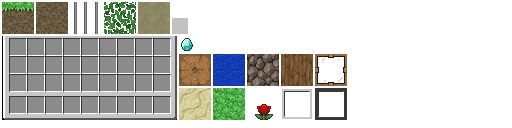
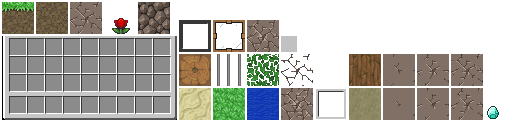
Began setting up block breaking animation: shaders and mesh updates

Changed region(s): [[0.125, 0.0, 1.0, 0.9375]]

diff --git a/core/src/com/deepwelldevelopment/spacequest/client/render/block/BasicBlockRender.java b/core/src/com/deepwelldevelopment/spacequest/client/render/block/BasicBlockRender.java
@@ -9,6 +9,7 @@ import com.badlogic.gdx.utils.ShortArray;
 import com.deepwelldevelopment.spacequest.block.Block;
 import com.deepwelldevelopment.spacequest.block.IBlockProvider;
 import com.deepwelldevelopment.spacequest.client.render.IBlockRender;
+import com.deepwelldevelopment.spacequest.util.TextureUtils;
 import com.deepwelldevelopment.spacequest.world.chunk.Chunk;
 
 import java.util.Arrays;
@@ -39,6 +40,7 @@ public class BasicBlockRender implements IBlockRender {
     protected float[] lightFloat3 = new float[4];
     protected float[] lightFloat4 = new float[4];
     private Vector2[] texCoords = new Vector2[4];
+    private Vector2[] breakCoords = new Vector2[4];
 
     @Override
     public synchronized boolean addBlock(Vector3 worldPosition, int x, int y, int z, IBlockProvider blockProvider,
@@ -48,6 +50,7 @@ public class BasicBlockRender implements IBlockRender {
         Vector2[] sidesTextureUVs = block.getSidesTextureUVs();
         Vector2[] topTextureUVs = block.getTopTextureUVs();
         Vector2[] bottomTextureUVs = block.getBottomTextureUVs();
+        breakCoords = TextureUtils.calculateUVMapping("breaking", 8);
 
         if (block.drawSide(blockProvider, chunk, x, y, z, Block.Side.FRONT)) {
             setAOLightFront(x, y, z, chunk, block);
@@ -100,15 +103,15 @@ public class BasicBlockRender implements IBlockRender {
     }
 
     protected void addFront(FloatArray vertices, ShortArray indicies) {
-        int vertexOffset = vertices.size / 12;
+        int vertexOffset = vertices.size / 14;
         vertices.addAll(
-                points[0].x, points[0].y, points[0].z, texCoords[0].x, texCoords[0].y, frontNormal[0], frontNormal[1],
+                points[0].x, points[0].y, points[0].z, texCoords[0].x, texCoords[0].y, breakCoords[0].x, breakCoords[0].y, frontNormal[0], frontNormal[1],
                 frontNormal[2], lightFloat4[0], lightFloat4[1], lightFloat4[2], lightFloat4[3],
-                points[1].x, points[1].y, points[1].z, texCoords[1].x, texCoords[1].y, frontNormal[0], frontNormal[1],
+                points[1].x, points[1].y, points[1].z, texCoords[1].x, texCoords[1].y, breakCoords[1].x, breakCoords[1].y, frontNormal[0], frontNormal[1],
                 frontNormal[2], lightFloat3[0], lightFloat3[1], lightFloat3[2], lightFloat3[3],
-                points[2].x, points[2].y, points[2].z, texCoords[2].x, texCoords[2].y, frontNormal[0], frontNormal[1],
+                points[2].x, points[2].y, points[2].z, texCoords[2].x, texCoords[2].y, breakCoords[2].x, breakCoords[2].y, frontNormal[0], frontNormal[1],
                 frontNormal[2], lightFloat2[0], lightFloat2[1], lightFloat2[2], lightFloat2[3],
-                points[3].x, points[3].y, points[3].z, texCoords[3].x, texCoords[3].y, frontNormal[0], frontNormal[1],
+                points[3].x, points[3].y, points[3].z, texCoords[3].x, texCoords[3].y, breakCoords[3].x, breakCoords[3].y, frontNormal[0], frontNormal[1],
                 frontNormal[2], lightFloat[0], lightFloat[1], lightFloat[2], lightFloat[3]);
 
         indicies.addAll((short) (vertexOffset), (short) (1 + vertexOffset), (short) (2 + vertexOffset), (short) (2 +
@@ -116,15 +119,15 @@ public class BasicBlockRender implements IBlockRender {
     }
 
     protected void addBack(FloatArray vertices, ShortArray indicies) {
-        int vertexOffset = vertices.size / 12;
+        int vertexOffset = vertices.size / 14;
         vertices.addAll(
-                points[4].x, points[4].y, points[4].z, texCoords[0].x, texCoords[0].y, backNormal[0], backNormal[1],
+                points[4].x, points[4].y, points[4].z, texCoords[0].x, texCoords[0].y, breakCoords[0].x, breakCoords[0].y, backNormal[0], backNormal[1],
                 backNormal[2], lightFloat4[0], lightFloat4[1], lightFloat4[2], lightFloat4[3],
-                points[5].x, points[5].y, points[5].z, texCoords[1].x, texCoords[1].y, backNormal[0], backNormal[1],
+                points[5].x, points[5].y, points[5].z, texCoords[1].x, texCoords[1].y, breakCoords[1].x, breakCoords[1].y, backNormal[0], backNormal[1],
                 backNormal[2], lightFloat3[0], lightFloat3[1], lightFloat3[2], lightFloat3[3],
-                points[6].x, points[6].y, points[6].z, texCoords[2].x, texCoords[2].y, backNormal[0], backNormal[1],
+                points[6].x, points[6].y, points[6].z, texCoords[2].x, texCoords[2].y, breakCoords[2].x, breakCoords[2].y, backNormal[0], backNormal[1],
                 backNormal[2], lightFloat2[0], lightFloat2[1], lightFloat2[2], lightFloat2[3],
-                points[7].x, points[7].y, points[7].z, texCoords[3].x, texCoords[3].y, backNormal[0], backNormal[1],
+                points[7].x, points[7].y, points[7].z, texCoords[3].x, texCoords[3].y, breakCoords[3].x, breakCoords[3].y, backNormal[0], backNormal[1],
                 backNormal[2], lightFloat[0], lightFloat[1], lightFloat[2], lightFloat[3]);
 
         indicies.addAll((short) (vertexOffset), (short) (1 + vertexOffset), (short) (2 + vertexOffset), (short) (2 +
@@ -132,15 +135,15 @@ public class BasicBlockRender implements IBlockRender {
     }
 
     protected void addRight(FloatArray vertices, ShortArray indicies) {
-        int vertexOffset = vertices.size / 12;
+        int vertexOffset = vertices.size / 14;
         vertices.addAll(
-                points[1].x, points[1].y, points[1].z, texCoords[0].x, texCoords[0].y, rightNormal[0], rightNormal[1],
+                points[1].x, points[1].y, points[1].z, texCoords[0].x, texCoords[0].y, breakCoords[0].x, breakCoords[0].y, rightNormal[0], rightNormal[1],
                 rightNormal[2], lightFloat4[0], lightFloat4[1], lightFloat4[2], lightFloat4[3],
-                points[4].x, points[4].y, points[4].z, texCoords[1].x, texCoords[1].y, rightNormal[0], rightNormal[1],
+                points[4].x, points[4].y, points[4].z, texCoords[1].x, texCoords[1].y, breakCoords[1].x, breakCoords[1].y, rightNormal[0], rightNormal[1],
                 rightNormal[2], lightFloat3[0], lightFloat3[1], lightFloat3[2], lightFloat3[3],
-                points[7].x, points[7].y, points[7].z, texCoords[2].x, texCoords[2].y, rightNormal[0], rightNormal[1],
+                points[7].x, points[7].y, points[7].z, texCoords[2].x, texCoords[2].y, breakCoords[2].x, breakCoords[2].y, rightNormal[0], rightNormal[1],
                 rightNormal[2], lightFloat2[0], lightFloat2[1], lightFloat2[2], lightFloat2[3],
-                points[2].x, points[2].y, points[2].z, texCoords[3].x, texCoords[3].y, rightNormal[0], rightNormal[1],
+                points[2].x, points[2].y, points[2].z, texCoords[3].x, texCoords[3].y, breakCoords[3].x, breakCoords[3].y, rightNormal[0], rightNormal[1],
                 rightNormal[2], lightFloat[0], lightFloat[1], lightFloat[2], lightFloat[3]);
 
         indicies.addAll((short) (vertexOffset), (short) (1 + vertexOffset), (short) (2 + vertexOffset), (short) (2 +
@@ -148,15 +151,15 @@ public class BasicBlockRender implements IBlockRender {
     }
 
     protected void addLeft(FloatArray vertices, ShortArray indicies) {
-        int vertexOffset = vertices.size / 12;
+        int vertexOffset = vertices.size / 14;
         vertices.addAll(
-                points[5].x, points[5].y, points[5].z, texCoords[0].x, texCoords[0].y, leftNormal[0], leftNormal[1],
+                points[5].x, points[5].y, points[5].z, texCoords[0].x, texCoords[0].y, breakCoords[0].x, breakCoords[0].y, leftNormal[0], leftNormal[1],
                 leftNormal[2], lightFloat4[0], lightFloat4[1], lightFloat4[2], lightFloat4[3],
-                points[0].x, points[0].y, points[0].z, texCoords[1].x, texCoords[1].y, leftNormal[0], leftNormal[1],
+                points[0].x, points[0].y, points[0].z, texCoords[1].x, texCoords[1].y, breakCoords[1].x, breakCoords[1].y, leftNormal[0], leftNormal[1],
                 leftNormal[2], lightFloat3[0], lightFloat3[1], lightFloat3[2], lightFloat3[3],
-                points[3].x, points[3].y, points[3].z, texCoords[2].x, texCoords[2].y, leftNormal[0], leftNormal[1],
+                points[3].x, points[3].y, points[3].z, texCoords[2].x, texCoords[2].y, breakCoords[2].x, breakCoords[2].y, leftNormal[0], leftNormal[1],
                 leftNormal[2], lightFloat2[0], lightFloat2[1], lightFloat2[2], lightFloat2[3],
-                points[6].x, points[6].y, points[6].z, texCoords[3].x, texCoords[3].y, leftNormal[0], leftNormal[1],
+                points[6].x, points[6].y, points[6].z, texCoords[3].x, texCoords[3].y, breakCoords[3].x, breakCoords[3].y, leftNormal[0], leftNormal[1],
                 leftNormal[2], lightFloat[0], lightFloat[1], lightFloat[2], lightFloat[3]);
 
         indicies.addAll((short) (vertexOffset), (short) (1 + vertexOffset), (short) (2 + vertexOffset), (short) (2 +
@@ -164,15 +167,15 @@ public class BasicBlockRender implements IBlockRender {
     }
 
     protected void addTop(FloatArray vertices, ShortArray indicies) {
-        int vertexOffset = vertices.size / 12;
+        int vertexOffset = vertices.size / 14;
         vertices.addAll(
-                points[3].x, points[3].y, points[3].z, texCoords[0].x, texCoords[0].y, topNormal[0], topNormal[1],
+                points[3].x, points[3].y, points[3].z, texCoords[0].x, texCoords[0].y, breakCoords[0].x, breakCoords[0].y, topNormal[0], topNormal[1],
                 topNormal[2], lightFloat[0], lightFloat[1], lightFloat[2], lightFloat[3],
-                points[2].x, points[2].y, points[2].z, texCoords[1].x, texCoords[1].y, topNormal[0], topNormal[1],
+                points[2].x, points[2].y, points[2].z, texCoords[1].x, texCoords[1].y, breakCoords[1].x, breakCoords[1].y, topNormal[0], topNormal[1],
                 topNormal[2], lightFloat2[0], lightFloat2[1], lightFloat2[2], lightFloat2[3],
-                points[7].x, points[7].y, points[7].z, texCoords[2].x, texCoords[2].y, topNormal[0], topNormal[1],
+                points[7].x, points[7].y, points[7].z, texCoords[2].x, texCoords[2].y, breakCoords[2].x, breakCoords[2].y, topNormal[0], topNormal[1],
                 topNormal[2], lightFloat3[0], lightFloat3[1], lightFloat3[2], lightFloat3[3],
-                points[6].x, points[6].y, points[6].z, texCoords[3].x, texCoords[3].y, topNormal[0], topNormal[1],
+                points[6].x, points[6].y, points[6].z, texCoords[3].x, texCoords[3].y, breakCoords[3].x, breakCoords[3].y, topNormal[0], topNormal[1],
                 topNormal[2], lightFloat4[0], lightFloat4[1], lightFloat4[2], lightFloat4[3]);
 
         indicies.addAll((short) (vertexOffset), (short) (1 + vertexOffset), (short) (2 + vertexOffset), (short) (2 +
@@ -181,15 +184,15 @@ public class BasicBlockRender implements IBlockRender {
     }
 
     protected void addBottom(FloatArray vertices, ShortArray indicies) {
-        int vertexOffset = vertices.size / 12;
+        int vertexOffset = vertices.size / 14;
         vertices.addAll(
-                points[5].x, points[5].y, points[5].z, texCoords[0].x, texCoords[0].y, bottomNormal[0], bottomNormal[1],
+                points[5].x, points[5].y, points[5].z, texCoords[0].x, texCoords[0].y, breakCoords[0].x, breakCoords[0].y, bottomNormal[0], bottomNormal[1],
                 bottomNormal[2], lightFloat[0], lightFloat[1], lightFloat[2], lightFloat[3],
-                points[4].x, points[4].y, points[4].z, texCoords[1].x, texCoords[1].y, bottomNormal[0], bottomNormal[1],
+                points[4].x, points[4].y, points[4].z, texCoords[1].x, texCoords[1].y, breakCoords[1].x, breakCoords[1].y, bottomNormal[0], bottomNormal[1],
                 bottomNormal[2], lightFloat2[0], lightFloat2[1], lightFloat2[2], lightFloat2[3],
-                points[1].x, points[1].y, points[1].z, texCoords[2].x, texCoords[2].y, bottomNormal[0], bottomNormal[1],
+                points[1].x, points[1].y, points[1].z, texCoords[2].x, texCoords[2].y, breakCoords[2].x, breakCoords[2].y, bottomNormal[0], bottomNormal[1],
                 bottomNormal[2], lightFloat3[0], lightFloat3[1], lightFloat3[2], lightFloat3[3],
-                points[0].x, points[0].y, points[0].z, texCoords[3].x, texCoords[3].y, bottomNormal[0], bottomNormal[1],
+                points[0].x, points[0].y, points[0].z, texCoords[3].x, texCoords[3].y, breakCoords[3].x, breakCoords[3].y, bottomNormal[0], bottomNormal[1],
                 bottomNormal[2], lightFloat4[0], lightFloat4[1], lightFloat4[2], lightFloat4[3]);
 
         indicies.addAll((short) (vertexOffset), (short) (1 + vertexOffset), (short) (2 + vertexOffset), (short) (2 +

diff --git a/core/src/com/deepwelldevelopment/spacequest/SpaceQuest.java b/core/src/com/deepwelldevelopment/spacequest/SpaceQuest.java
@@ -19,9 +19,11 @@ import com.badlogic.gdx.math.Vector3;
 import com.badlogic.gdx.utils.BufferUtils;
 import com.badlogic.gdx.utils.GdxRuntimeException;
 import com.badlogic.gdx.utils.ObjectSet;
+import com.deepwelldevelopment.spacequest.block.Block;
 import com.deepwelldevelopment.spacequest.block.BlockProvider;
 import com.deepwelldevelopment.spacequest.block.IBlockProvider;
 import com.deepwelldevelopment.spacequest.client.gui.Gui;
+import com.deepwelldevelopment.spacequest.client.render.VoxelMesh;
 import com.deepwelldevelopment.spacequest.client.render.VoxelRender;
 import com.deepwelldevelopment.spacequest.inventory.Hotbar;
 import com.deepwelldevelopment.spacequest.item.Item;
@@ -72,6 +74,17 @@ public class SpaceQuest implements ApplicationListener {
     private PhysicsController physicsController;
     private Item item;
     private Hotbar hotbar;
+    private VoxelMesh breakingMesh;
+    private Block breakingBlock0;
+    private Block breakingBlock1;
+    private Block breakingBlock2;
+    private Block breakingBlock3;
+    private Block breakingBlock4;
+    private Block breakingBlock5;
+    private Block breakingBlock6;
+    private Block breakingBlock7;
+    private Block breakingBlock8;
+    private Block breakingBlock9;
 
     private Gui openGui;
 
@@ -131,6 +144,18 @@ public class SpaceQuest implements ApplicationListener {
         this.chunkProvider = world.getChunkProvider();
 
         item = new Item((byte) 1, "diamond");
+
+        breakingMesh = new VoxelMesh();
+        breakingBlock0 = new Block((byte) -1, "breaking_0");
+        breakingBlock0 = new Block((byte) -1, "breaking_1");
+        breakingBlock0 = new Block((byte) -1, "breaking_2");
+        breakingBlock0 = new Block((byte) -1, "breaking_3");
+        breakingBlock0 = new Block((byte) -1, "breaking_4");
+        breakingBlock0 = new Block((byte) -1, "breaking_5");
+        breakingBlock0 = new Block((byte) -1, "breaking_6");
+        breakingBlock0 = new Block((byte) -1, "breaking_7");
+        breakingBlock0 = new Block((byte) -1, "breaking_8");
+        breakingBlock0 = new Block((byte) -1, "breaking_9");
     }
 
     @Override
@@ -180,6 +205,34 @@ public class SpaceQuest implements ApplicationListener {
 
     public World getWorld() {
         return world;
+    }
+
+    public void updateBreaking(int state) {
+        switch (state) {
+            case 0:
+                break;
+            case 1:
+                break;
+            case 2:
+                break;
+            case 3:
+                break;
+            case 4:
+                break;
+            case 5:
+                break;
+            case 6:
+                break;
+            case 7:
+                break;
+            case 8:
+                break;
+            case 9:
+                break;
+        }
+    }
+
+    private void setBreakingBlock(Block block) {
     }
 
     private void renderModelBatches() {
@@ -291,7 +344,7 @@ public class SpaceQuest implements ApplicationListener {
 
     private ShaderProgram setupShaders() {
         ShaderProgram.pedantic = true;
-        ShaderProgram shaderProgram = new ShaderProgram(Gdx.files.internal("shaders/shader.vs"), Gdx.files.internal("shaders/shader.fs"));
+        ShaderProgram shaderProgram = new ShaderProgram(Gdx.files.internal("shaders/shader.vert"), Gdx.files.internal("shaders/shader.frag"));
         System.out.println(shaderProgram.isCompiled() ? "Shaders compiled ok" : "Shaders didn't compile ok: " + shaderProgram.getLog());
 
         return shaderProgram;

diff --git a/core/src/com/deepwelldevelopment/spacequest/util/TextureUtils.java b/core/src/com/deepwelldevelopment/spacequest/util/TextureUtils.java
@@ -22,4 +22,21 @@ public class TextureUtils {
 
         return UVList;
     }
+
+    public static Vector2[] calculateUVMapping(String regionName, int index) {
+        Vector2[] UVList = new Vector2[4];
+        TextureAtlas.AtlasRegion region = SpaceQuest.getSpaceQuest().getTextureAtlas().findRegion(regionName, index);
+
+        float uOffset = region.getU();
+        float vOffset = region.getV();
+        float uScale = region.getU2() - uOffset;
+        float vScale = region.getV2() - vOffset;
+
+        UVList[3] = new Vector2(uOffset, vOffset); // 0,0
+        UVList[0] = new Vector2(uOffset, vOffset + vScale); // 0,1
+        UVList[2] = new Vector2(uOffset + uScale, vOffset); // 1,0
+        UVList[1] = new Vector2(uOffset + uScale, vOffset + vScale); // 1,1
+
+        return UVList;
+    }
 }

diff --git a/core/src/com/deepwelldevelopment/spacequest/client/render/BoxMesh.java b/core/src/com/deepwelldevelopment/spacequest/client/render/BoxMesh.java
@@ -136,7 +136,7 @@ public class BoxMesh {
         Mesh inProgressMesh = null;
         try {
             inProgressMesh = new Mesh(true, 4 * (v.length / 12), 6 * i.length, VertexAttribute.Position(),
-                    VertexAttribute.TexCoords(0), VertexAttribute.Normal(), VertexAttribute.ColorUnpacked());
+                    VertexAttribute.TexCoords(0), VertexAttribute.TexCoords(1), VertexAttribute.Normal(), VertexAttribute.ColorUnpacked());
             inProgressMesh.setVertices(v);
             inProgressMesh.setIndices(i);
         } catch (Exception e) {
